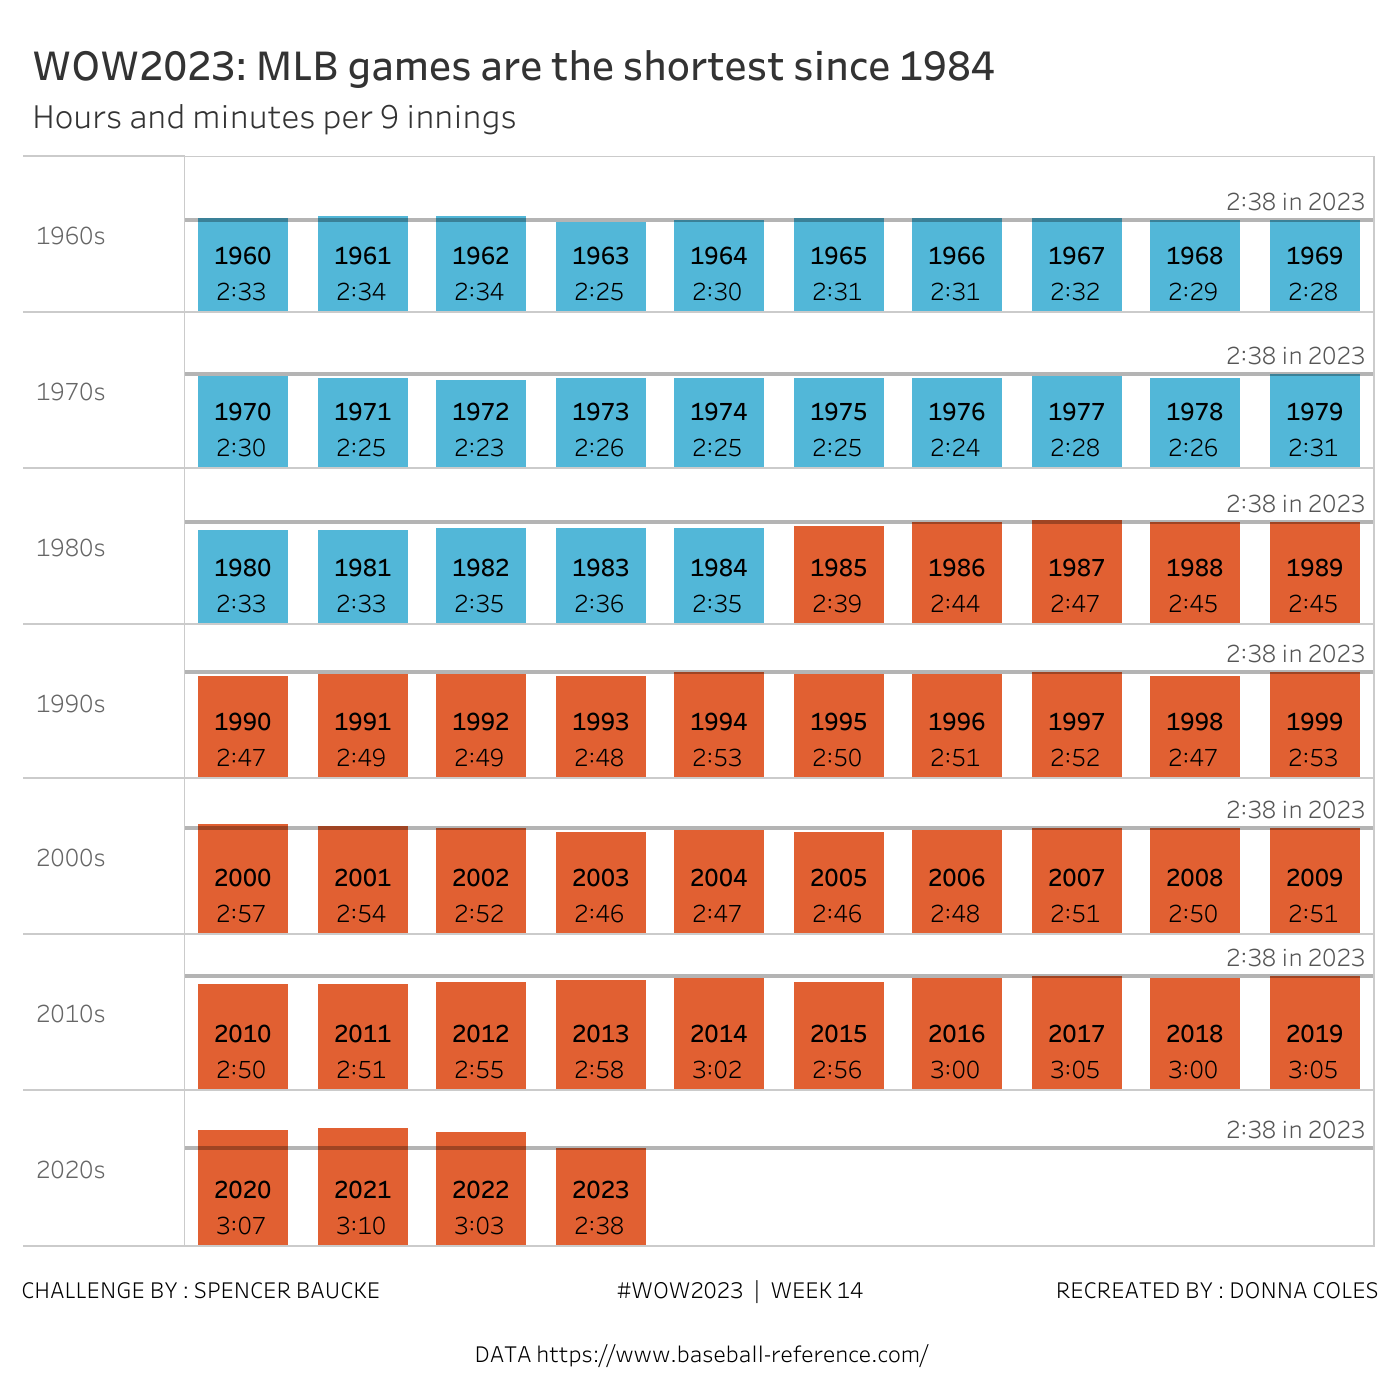
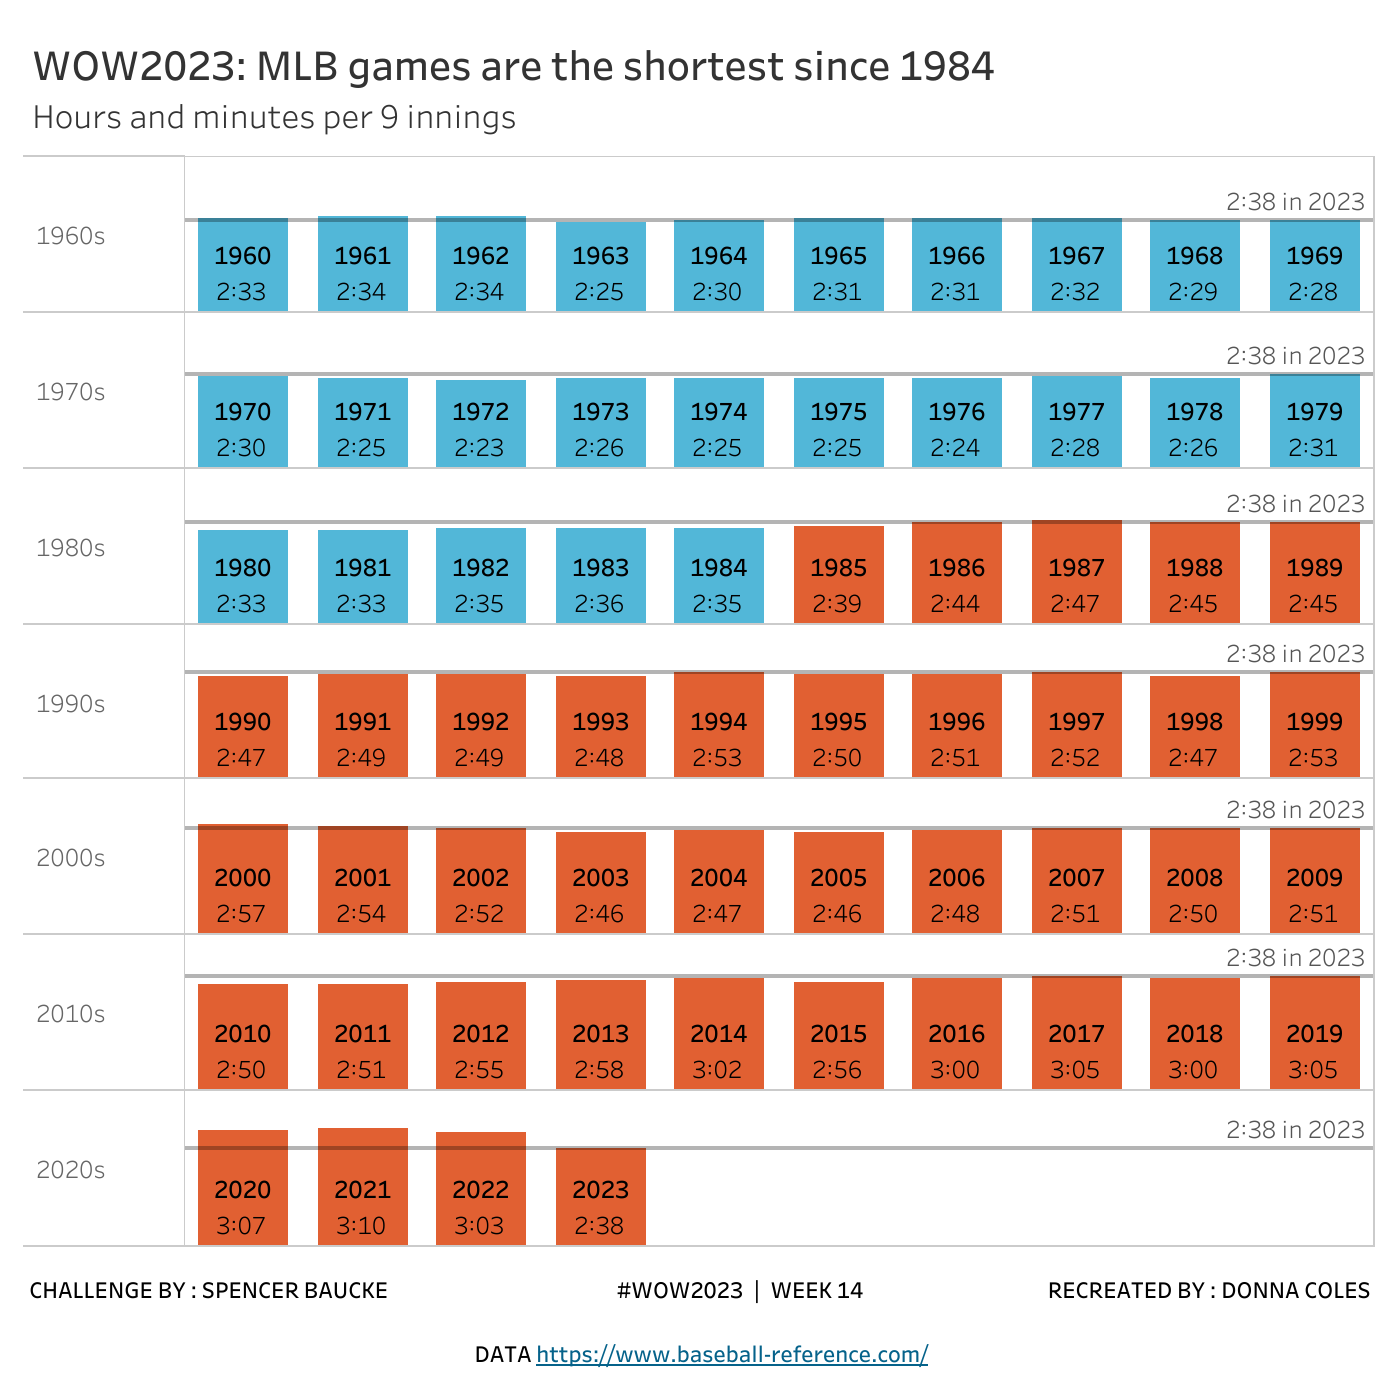
fix(ww14): match the author's dashboard text zones exactly
The credits and data-source rows were the last non-plot differences. The
author pins `fontname='Tableau Medium'` on every dashboard text run, makes the
baseball-reference URL a real hyperlink, and gives each text zone a 4px
margin. The builder emitted none of those, so the rows were offset and
rendered in the default face.

- Add `font_name="Tableau Medium"` to all five dashboard text runs.
- Add the `tabdoc:load-url` hyperlink to the source URL run.
- Give each text zone `style={"margin": "4"}`, matching the author.

The title, credits, and source regions now diff at 0 pixels; the whole-image
delta drops from 4.38% to 3.76%, and the entire residual is inside the plot
area.

Also document the two plot-area gaps precisely, both verified by experiment:
- The author addresses Latest Duration with a specific-dimension table calc
  ordered by [Decade],[Year], so "2:38 in 2023" is global (158) in every pane.
  table_calc_overrides cannot express that without changing the bar ordering;
  the `order: [Decade, Year]` form regressed the render to 32.9%.
- Percentage distribution bands (the author's 150% spacer) have no public API;
  injecting the author's band XML moved the bars the wrong way (6.7%).

Gates: verify_replication PASS, validate_iteration PASS, 79 unit tests OK,
Desktop LOADED.

diff --git a/iterations/2023-04-07-ww14-baseball-game-duration/build_replication.py b/iterations/2023-04-07-ww14-baseball-game-duration/build_replication.py
@@ -251,9 +251,11 @@ def build(output_path: Path) -> Path:
                         "font_size": "8",
                         "font_color": "#000000",
                         "font_alignment": "0",
+                        "font_name": "Tableau Medium",
                     }
                 ],
                 "absolute": {"x": 1143, "y": 89714, "w": 36190, "h": 4572},
+                "style": {"margin": "4"},
             },
             {
                 "type": "text",
@@ -264,9 +266,11 @@ def build(output_path: Path) -> Path:
                         "font_size": "8",
                         "font_color": "#000000",
                         "font_alignment": "1",
+                        "font_name": "Tableau Medium",
                     }
                 ],
                 "absolute": {"x": 37333, "y": 89714, "w": 31048, "h": 4572},
+                "style": {"margin": "4"},
             },
             {
                 "type": "text",
@@ -277,9 +281,11 @@ def build(output_path: Path) -> Path:
                         "font_size": "8",
                         "font_color": "#000000",
                         "font_alignment": "2",
+                        "font_name": "Tableau Medium",
                     }
                 ],
                 "absolute": {"x": 68381, "y": 89714, "w": 30476, "h": 4572},
+                "style": {"margin": "4"},
             },
             {
                 "type": "text",
@@ -290,15 +296,19 @@ def build(output_path: Path) -> Path:
                         "font_size": "8",
                         "font_color": "#000000",
                         "font_alignment": "1",
+                        "font_name": "Tableau Medium",
                     },
                     {
                         "text": "https://www.baseball-reference.com/",
                         "font_size": "8",
                         "font_color": "#000000",
                         "font_alignment": "1",
+                        "font_name": "Tableau Medium",
+                        "hyperlink": 'tabdoc:load-url url="https://www.baseball-reference.com/"',
                     },
                 ],
                 "absolute": {"x": 1143, "y": 94286, "w": 97714, "h": 4571},
+                "style": {"margin": "4"},
             },
         ],
     }

diff --git a/iterations/2023-04-07-ww14-baseball-game-duration/evidence/visual-review.md b/iterations/2023-04-07-ww14-baseball-game-duration/evidence/visual-review.md
@@ -26,7 +26,10 @@ both the h:nn duration and the pace classification:
 - A "2:38 in 2023" custom-labelled reference line spans every decade pane in
   both renders.
 - Duration axis, Index header, and field labels are hidden; tooltips off.
-- Challenge credits and the baseball-reference data footnote are present.
+- Challenge credits and the baseball-reference data footnote are present, and
+  match the author's text zones byte-for-byte after reproducing the author's
+  `fontname='Tableau Medium'` runs, the source hyperlink, and the 4px text-zone
+  margins (those three regions now diff at 0 pixels).
 - The worksheet title (bold headline + 12pt subtitle) renders on the
   worksheet itself, and the dashboard zone keeps it visible.
 - The Index pill is bound as an ordinal instance, so the bars fill their
@@ -45,25 +48,32 @@ verifier now asserts both the palette buckets and their table-calc context.
 
 ## Pixel comparison
 
-A whole-image diff of the two 1400×1400 captures reports 85,796 pixels
-(4.38%) differing by more than 30 levels; 95.5% of all pixels are identical.
-The residual is confined to per-decade bar top edges (the author's 150%
-distribution spacer refline shifts each pane's axis range by a few pixels)
-plus the credits rows (the author's text zones carry a 4px margin that the
-replica approximates).
+A whole-image diff of the two 1400×1400 captures reports 73,748 pixels
+(3.76%) differing by more than 30 levels; 96.2% of all pixels are identical,
+and the entire residual is inside the plot area — the title, credits, and
+source rows now diff at **0 pixels**.
 
 The dashboard geometry matches after reproducing the author's zone margins
-(root `margin=8` + Viz zone `margin=4`, a 12 dashboard px inset): the title
-and the credits rows now start at the same y-positions as the author's.
+(root `margin=8` + a 4px margin on the Viz and text zones, a 12 dashboard px
+inset): the title and the credits rows start at the same y-positions as the
+author's.
 
 ## Accepted deltas
 
+- **Reference-line placement.** The author addresses `Latest Duration` with a
+  specific-dimension table calc ordered by `[Decade], [Year]`, so
+  `WINDOW_MAX` resolves to the global 2023 value (158) and the "2:38 in 2023"
+  line sits at the same offset (55px from the pane top) in every decade. The
+  replica's table calc addresses by Year alone, so it partitions per Decade:
+  the line drifts (39–61px) and evaluates to that decade's last year
+  (~163–195) instead of 158. cwtwb's `table_calc_overrides` cannot express the
+  author's specific-dimension addressing without also changing the bar
+  ordering; the `order: [Decade, Year]` form was tested and regressed the
+  render to 32.9%. Numeric agreement is unaffected — the verifier recomputes
+  the classification from the extract and the bar values and labels match.
 - The author's second reference line is a 150% percentage distribution band
   (`percentage-bands='true'`, `<reference-line-value percentage='150'/>`)
   used purely as row breathing space. cwtwb has no public API for percentage
-  distribution bands, so per-decade bar tops differ by up to ~8 px. Colours,
-  bar widths, labels, values, and the classification are unaffected.
-- The credits rows sit within 1–2 px of the author's (the author's text zones
-  carry a 4px margin; the replica applies the same value on its own text
-  zones).
+  distribution bands; injecting the author's band XML was tested and moved
+  the bars the wrong way (6.7%).
 - Fonts and padding differ slightly (allowed).
